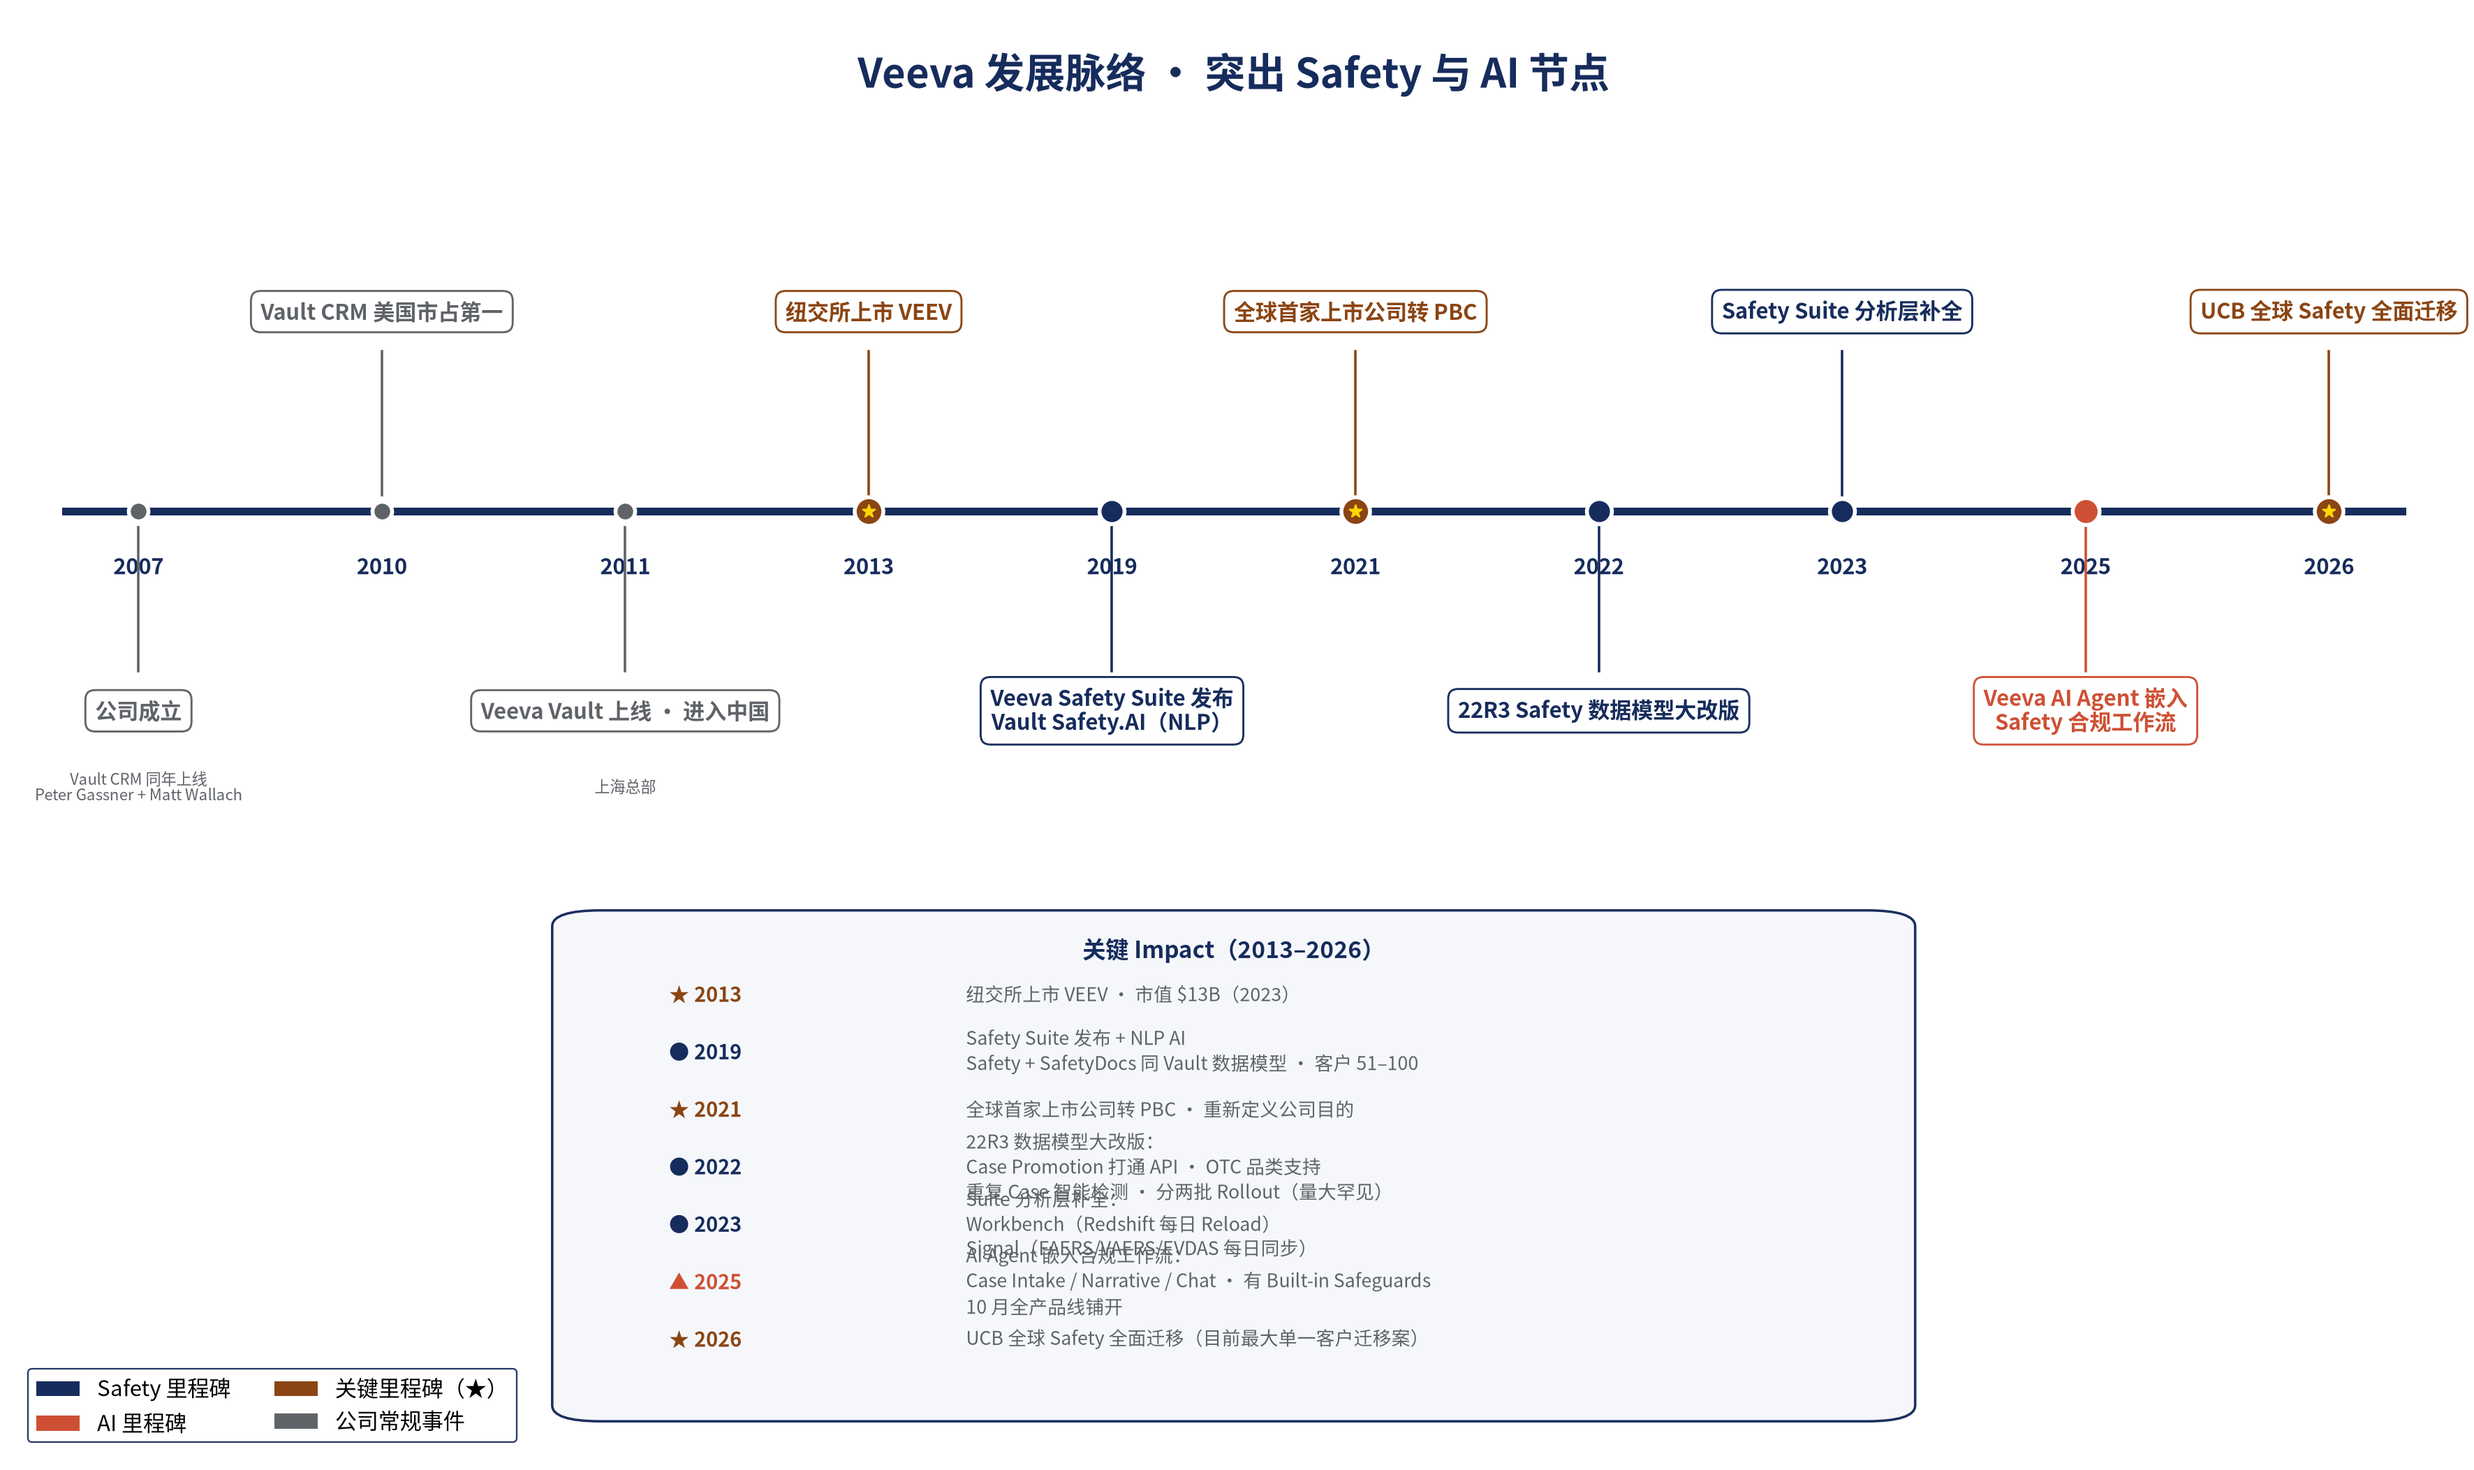
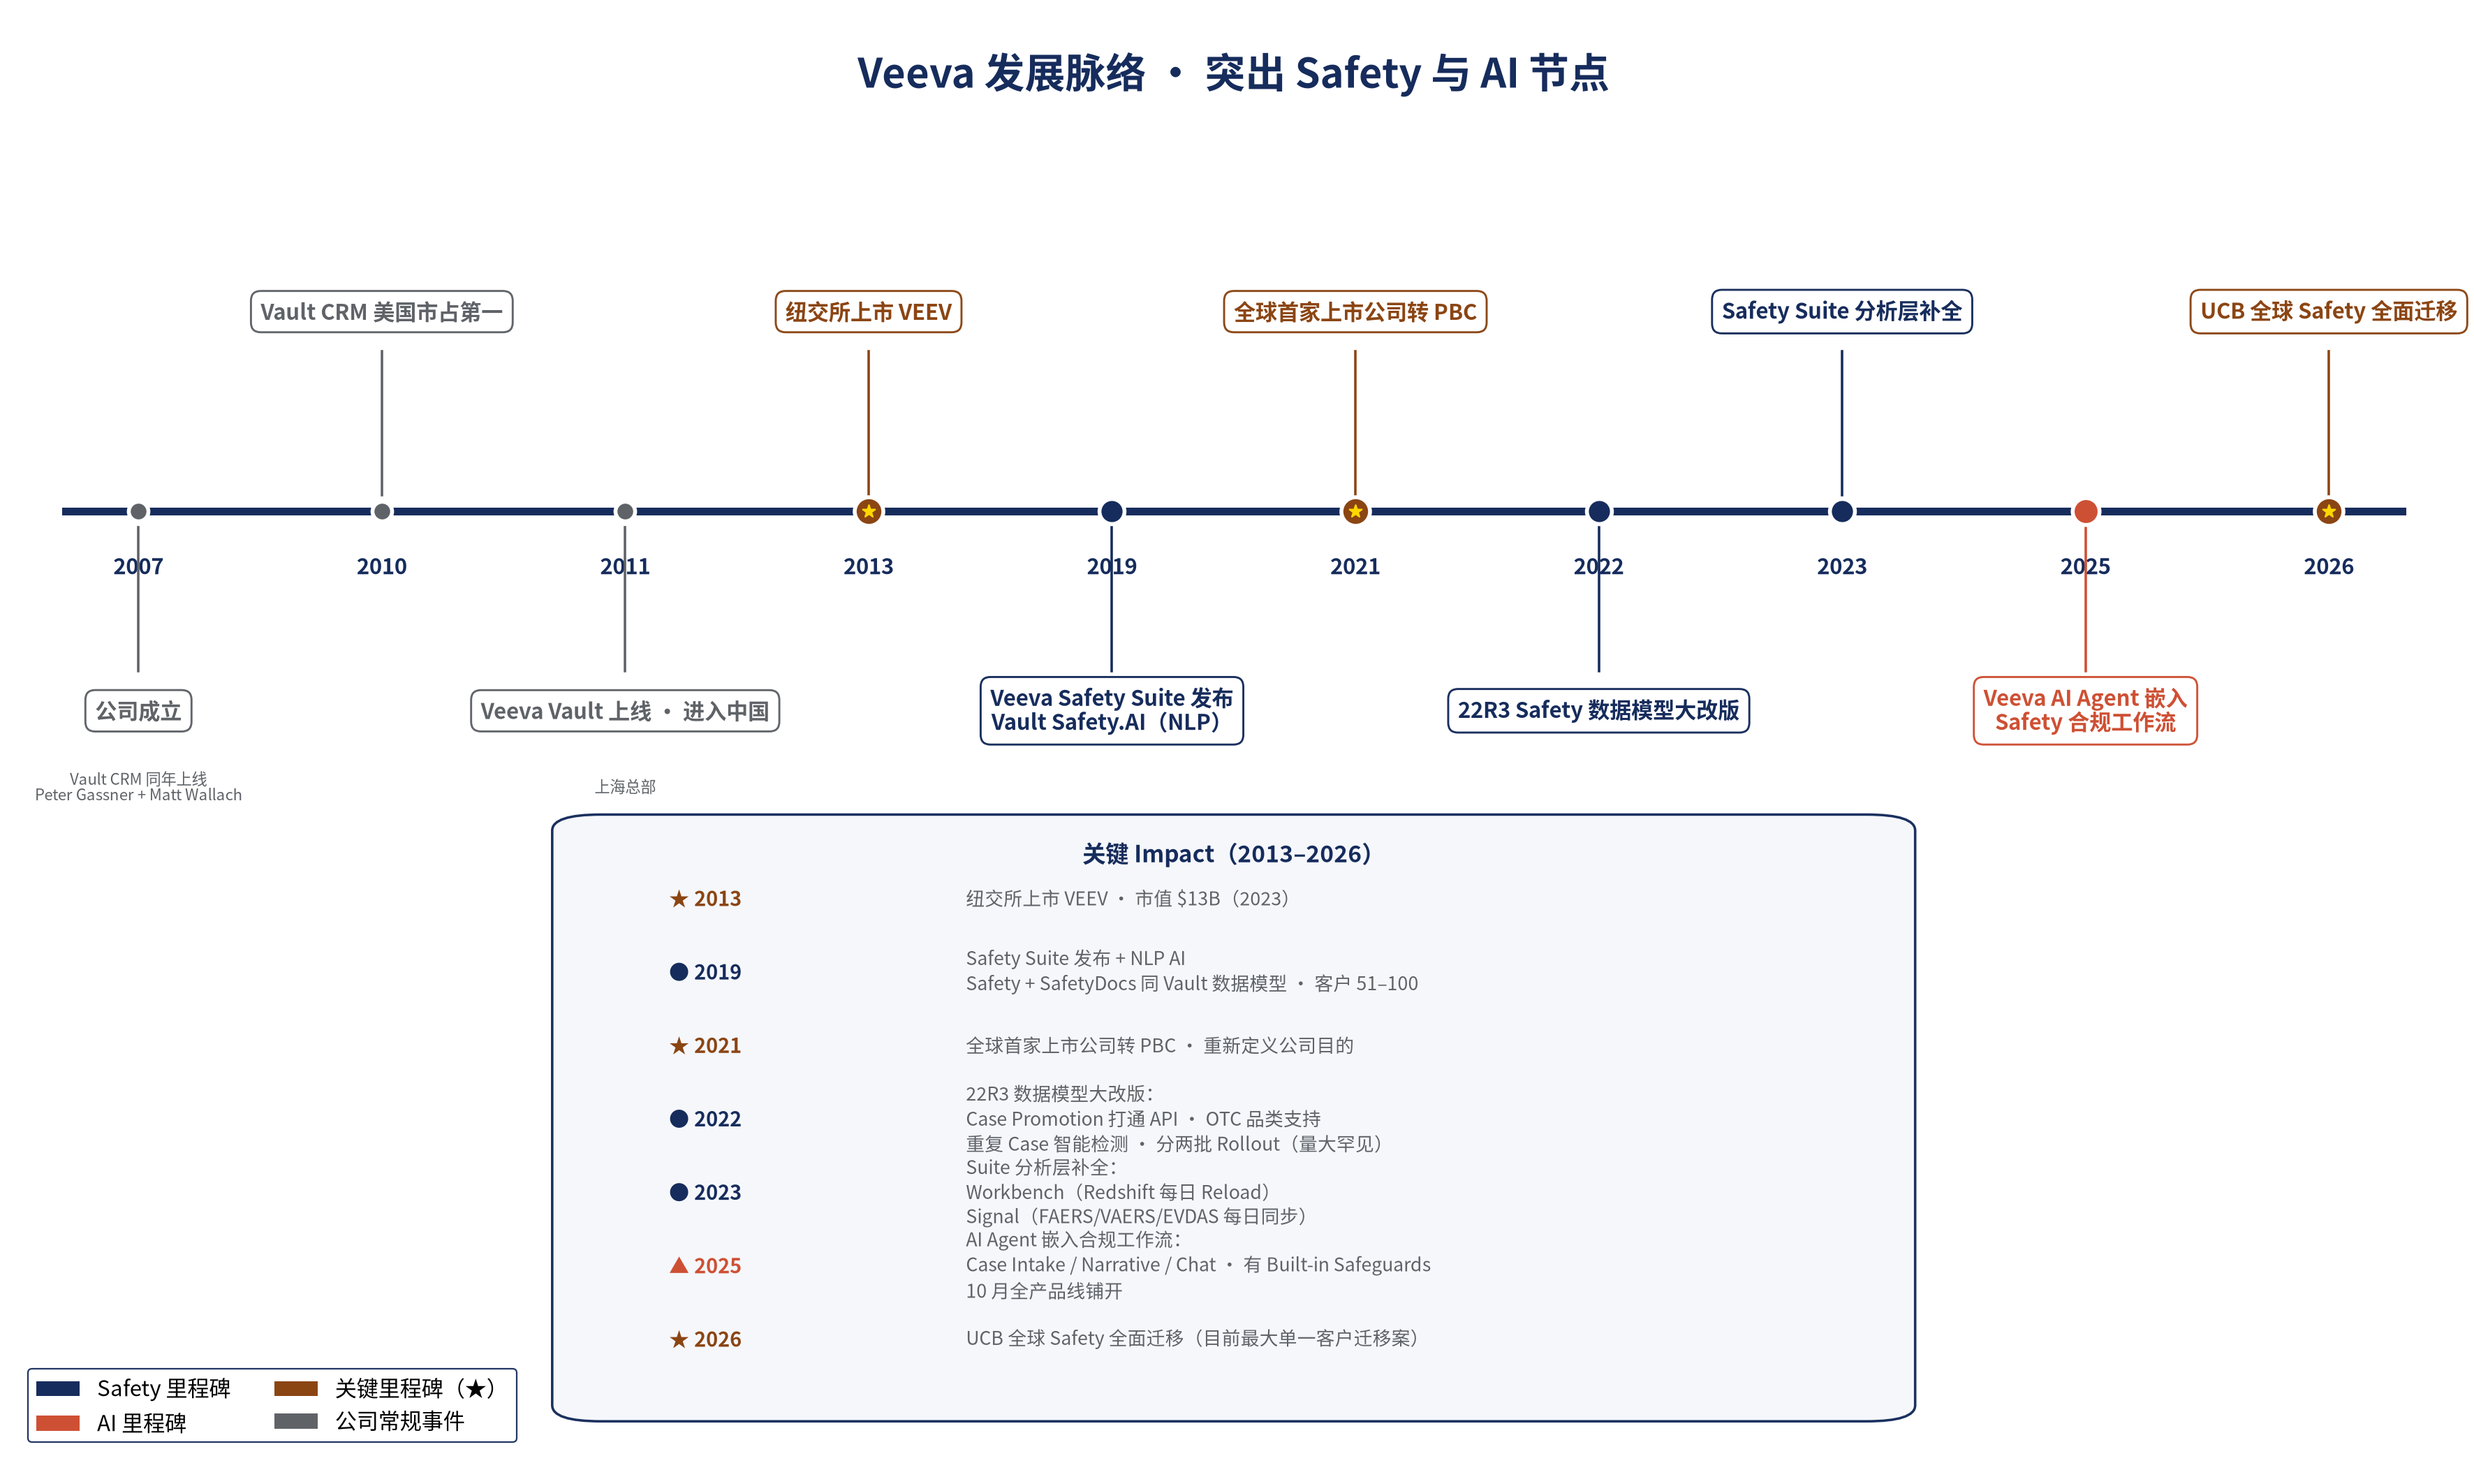
Veeva v4.1：Impact 框行距 0.72→0.92，框高 6.0→7.2，多行内容不再重叠

diff --git a/veeva_timeline_v4.py b/veeva_timeline_v4.py
@@ -91,7 +91,7 @@ box_center_x = (ax.get_xlim()[0] + ax.get_xlim()[1]) / 2
 right_box_left = box_center_x - box_w / 2
 right_box_w = box_w
 right_box_y = -4.0
-right_box_h = 6.0
+right_box_h = 7.2               # 框加高 6.0 → 7.2，给多行 Impact 留空间
 
 right_box = FancyBboxPatch(
     (right_box_left, right_box_y),
@@ -118,7 +118,7 @@ impact_lines = [
 
 bullet_colors = {'●': NAVY, '★': MILESTONE, '▲': ACCENT}
 impact_start_y = right_box_y + right_box_h - 0.85
-line_spacing = 0.72
+line_spacing = 0.92             # 行距从 0.72 → 0.92，避免多行内容和下一条重叠
 
 for i, (bullet, yr, text) in enumerate(impact_lines):
     y = impact_start_y - i * line_spacing
